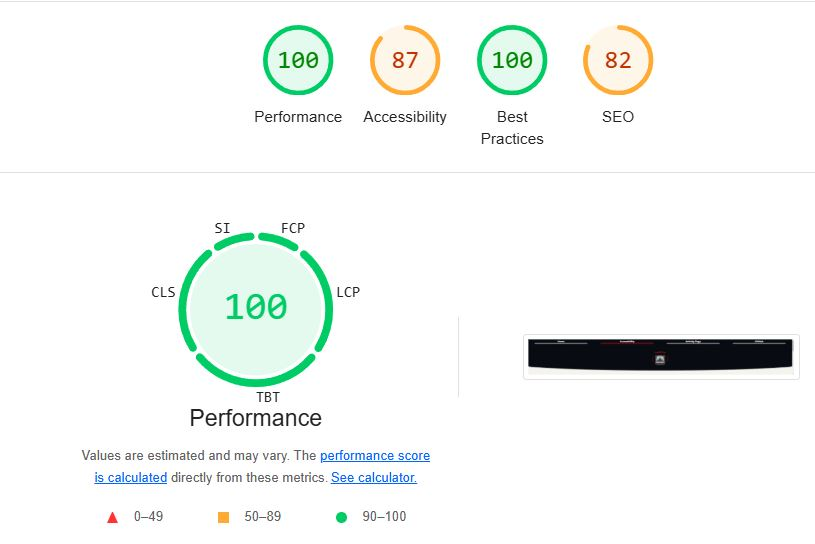
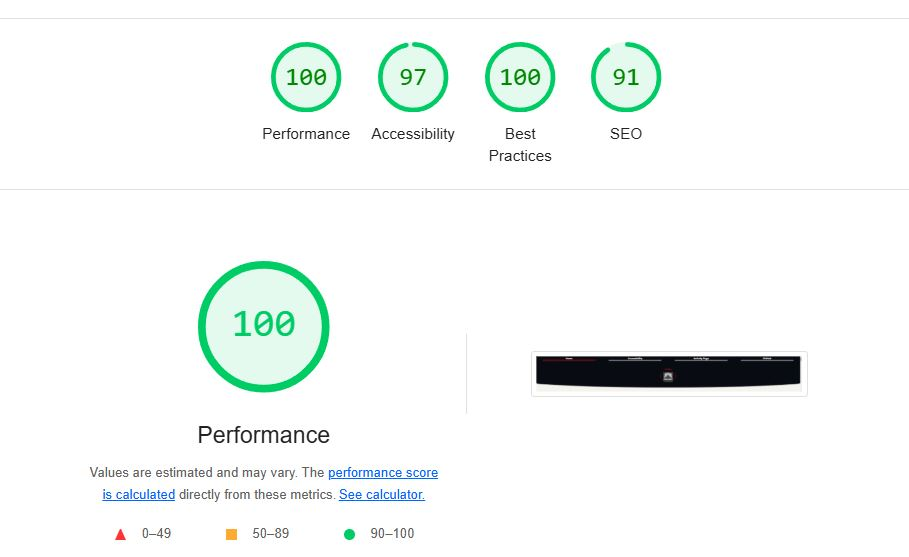
Added text and pictures.

diff --git a/pages/Accessibility.html b/pages/Accessibility.html
@@ -96,6 +96,35 @@
 <main>
 
     <div class="centered">
+
+        <div class="image-figure">
+            <figure class="acessibility-figure">
+                <img src="../media/Lighthouse.webp" alt="Image of Lighthouse accessibility test"/>
+                <figcaption class="image-caption">
+                    Image of Lighthouse accessibility test
+                </figcaption>
+            </figure>
+        </div>
+        <div class="image-figure">
+            <figure class="acessibility-figure">
+                <img src="../media/Wave.webp" alt="Image of Wave accessibility test"/>
+                <figcaption class="image-caption">
+                    Image of Wave accessibility test
+                </figcaption>
+            </figure>
+        </div>
+        <div class="image-figure">
+            <figure class="acessibility-figure">
+                <img src="../media/Code.webp" alt="Image of code"/>
+                <figcaption class="image-caption">
+                    Image of code
+                </figcaption>
+            </figure>
+        </div>
+    </div>
+
+
+    <div class="centered">
         <div class="card">
             <figure class="card-figure">
                 <div class="card-figure-image">
@@ -111,10 +140,34 @@
                 </label>
 
                 <figcaption class="card-figure-caption">
-                    <p>Pellentesque habitant morbi tristique senectus et netus et malesuada fames ac turpis egestas. Pellentesque habitant morbi tristique senectus et netus et malesuada fames ac turpis egestas. Pellentesque habitant morbi tristique senectus et netus et malesuada fames ac turpis egestas. Pellentesque habitant morbi tristique senectus et netus et malesuada fames ac turpis egestas. Pellentesque habitant morbi tristique senectus et netus et malesuada fames ac turpis egestas. Pellentesque habitant morbi tristique senectus et netus et malesuada fames ac turpis egestas. Pellentesque habitant morbi tristique senectus et netus et malesuada fames ac turpis egestas. Pellentesque habitant morbi tristique senectus et netus et malesuada fames ac turpis egestas. Pellentesque habitant morbi tristique senectus et netus et malesuada fames ac turpis egestas. Pellentesque habitant morbi tristique senectus et netus et malesuada fames ac turpis egestas.Pellentesque habitant morbi tristique senectus et netus et malesuada fames ac turpis egestas. Pellentesque habitant morbi tristique senectus et netus et malesuada fames ac turpis egestas. Pellentesque habitant morbi tristique senectus et netus et malesuada fames ac turpis egestas. Vestibulum tortor quam, feugiat vitae, ultricies eget, tempor sit amet, ante. Donec eu libero sit amet quam egestas semper. Aenean ultricies mi vitae est. Mauris placerat eleifend leo. Quisque sit amet est et sapien ullamcorper pharetra. Vestibulum erat wisi, condimentum sed, commodo vitae, ornare sit amet, wisi. Aenean fermentum, elit eget tincidunt condimentum, eros ipsum rutrum orci, sagittis tempus lacus enim ac dui. Donec non enim in turpis pulvinar facilisis. Ut felis. Praesent dapibus, neque id cursus faucibus, tortor neque egestas augue, eu vulputate magna eros eu erat. Aliquam erat volutpat. Nam dui mi, tincidunt quis, accumsan porttitor, facilisis luctus, metus</p>
-                    <p>Pellentesque habitant morbi tristique senectus et netus et malesuada fames ac turpis egestas. Vestibulum tortor quam, feugiat vitae, ultricies eget, tempor sit amet, ante. Donec eu libero sit amet quam egestas semper. Aenean ultricies mi vitae est. Mauris placerat eleifend leo. Quisque sit amet est et sapien ullamcorper pharetra. Vestibulum erat wisi, condimentum sed, commodo vitae, ornare sit amet, wisi. Aenean fermentum, elit eget tincidunt condimentum, eros ipsum rutrum orci, sagittis tempus lacus enim ac dui. Donec non enim in turpis pulvinar facilisis. Ut felis. Praesent dapibus, neque id cursus faucibus, tortor neque egestas augue, eu vulputate magna eros eu erat. Aliquam erat volutpat. Nam dui mi, tincidunt quis, accumsan porttitor, facilisis luctus, metus</p>
-                    <p>Pellentesque habitant morbi tristique senectus et netus et malesuada fames ac turpis egestas. Vestibulum tortor quam, feugiat vitae, ultricies eget, tempor sit amet, ante. Donec eu libero sit amet quam egestas semper. Aenean ultricies mi vitae est. Mauris placerat eleifend leo. Quisque sit amet est et sapien ullamcorper pharetra. Vestibulum erat wisi, condimentum sed, commodo vitae, ornare sit amet, wisi. Aenean fermentum, elit eget tincidunt condimentum, eros ipsum rutrum orci, sagittis tempus lacus enim ac dui. Donec non enim in turpis pulvinar facilisis. Ut felis. Praesent dapibus, neque id cursus faucibus, tortor neque egestas augue, eu vulputate magna eros eu erat. Aliquam erat volutpat. Nam dui mi, tincidunt quis, accumsan porttitor, facilisis luctus, metus</p>
-                    <p>Pellentesque habitant morbi tristique senectus et netus et malesuada fames ac turpis egestas. Vestibulum tortor quam, feugiat vitae, ultricies eget, tempor sit amet, ante. Donec eu libero sit amet quam egestas semper. Aenean ultricies mi vitae est. Mauris placerat eleifend leo. Quisque sit amet est et sapien ullamcorper pharetra. Vestibulum erat wisi, condimentum sed, commodo vitae, ornare sit amet, wisi. Aenean fermentum, elit eget tincidunt condimentum, eros ipsum rutrum orci, sagittis tempus lacus enim ac dui. Donec non enim in turpis pulvinar facilisis. Ut felis. Praesent dapibus, neque id cursus faucibus, tortor neque egestas augue, eu vulputate magna eros eu erat. Aliquam erat volutpat. Nam dui mi, tincidunt quis, accumsan porttitor, facilisis luctus, metus</p>
+                    <h4>Automated tests</h4>
+                    <p>
+                        We firstly did an automated test in Google Chrome called Lighthouse accessibility test. This test gives a score in four different
+                        tests. These tests are Performance, Accessibility, Best Practises and SEO. We got a score of 100 in Performance, a score of 97 in Accessibility,
+                        a score of 100 in best practises, and a score of 91 in SEO. So to conclude the Lighthouse accessibility test it was very successful for us with a really high score.
+                        We also did an automated accessibility test in Wave, in this test we also got zero errors and that really pleased us. The automated tests went very well.
+                    </p>
+                    <h4>Design</h4>
+                    <p>
+                        When designing a new site you need to think a lot about the design. You have to make the design accessible for everyone no matter if they have a bad sight or something else.
+                        From a design perspective it's probably best to make many sketches with different designs before you make the site. After making sketches then you can make prototypes in Figma or another prototyping tool.
+                        After making a prototype you can test the prototype with user testing, a form for user testing can be interviewing people and getting feedback to get good quality feedback.
+                        Another method can be making surveys with questions and pictures of the prototype, this will give more answers more easily. After getting feedback then you can make the prototype better and get more feedback.
+                        If the development team are happy with the feedback then the development team can start making the site in html and css.
+                        When making the site we made sure to have the correct contrasts and made sure that all the text is clear and easy to understand. We also made sure that the site is also user-friendly and easy to navigate.
+                        It's very important that the site is easy for the users to use and that the users don't meet problems on the site that will make the users upset or that they struggle with seeing things like if small text are used etc.
+                    </p>
+                    <h4>Coding choices</h4>
+                    <p>
+                        When we coded we ensured that we had a good code practice, so we reduced the risk of error occurring.
+                        We have also commented the code and styling to make it easy for other developers to continue developing our site in the future.
+                        When we coded the site we talked over the application called Discord to make it easy and good to code and work together in the best possible way.
+                    </p>
+                    <h4>Manual testing</h4>
+                    <p>
+                        We also did manual testing, we went through all the pages and checked if everything worked as it should. We also checked if everything looked good design vise.
+                        To conclude everything was working as it should and the site performed as expected.
+                    </p>
 
                     <span class="card-figure-caption-link">
                         ~

diff --git a/pages/GitHub.html b/pages/GitHub.html
@@ -152,9 +152,17 @@
                     <p>There are also many other benefits when using Github like sharing code in a community and get feedback on the code work you do.</p>
                     <p></p>
                     <h4>How does GitHub work?</h4>
-                    <p>When coding in a development tool like VsCode, IntelliJ or other development tools then you can make a pull request with the changes you have made. After making a pull request you can see the pull request in Github and check if there are any merging errors, you can also get another developer to check if everything looks good. After everything is checked out you can push the pull request into the Main branch and the changes you made will be live in the main branch.</p>
+                    <p>
+                        When coding in a development tool like VsCode, IntelliJ or other development tools then you can make a pull request with the changes you have made.
+                        After making a pull request you can see the pull request in Github and check if there are any merging errors, you can also get another developer to check if everything looks good.
+                        After everything is checked out you can push the pull request into the Main branch and the changes you made will be live in the main branch.
+                    </p>
                     <h4>Benefits of working together with Liveshare</h4>
-                    <p>When working together in Liveshare you get many benefits. You can see live what the other developers is changing, and it allows for better collaboration between the development team. It will also prevent merge errors because if everyone is working without Liveshare then there can be merge errors when merging their branch with the main-branch if someone has forgotten to update their local main-branch. So in conclusion Liveshare is very good for collaboration and learning from each other.</p>
+                    <p>
+                        When working together in Liveshare you get many benefits. You can see live what the other developers is changing, and it allows for better collaboration between the development team.
+                        It will also prevent merge errors because if everyone is working without Liveshare then there can be merge errors when merging their branch with the main-branch if someone has forgotten to update their local main-branch.
+                        So in conclusion Liveshare is very good for collaboration and learning from each other.
+                    </p>
                     <span class="card-figure-caption-link">
 
                         <a href="https://x.com/AFI_forskning/status/1765662991586902082" target="_blank" rel="external">
